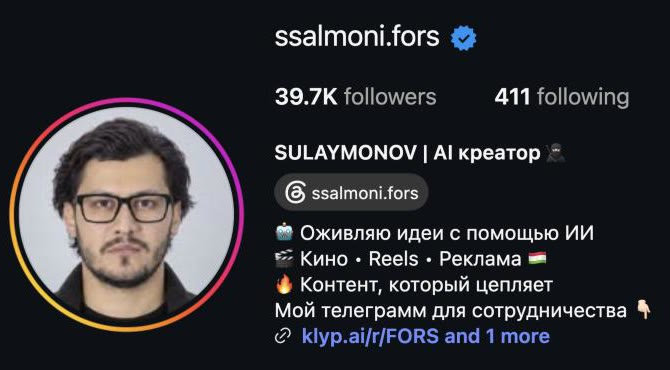
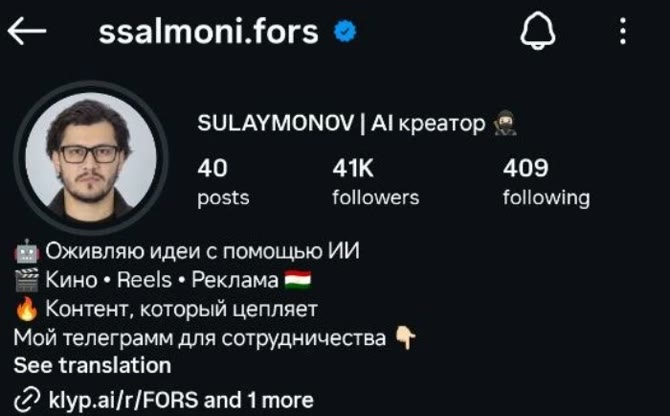
feat: free consultation instead of Instagram review, trim repeated blocks
- Хочу так же scrolls to the 8-week result block, now placed under student works
- New student profile screenshot and a fourth review
- Remove the How block, shorten mini-group texts

diff --git a/src/App.jsx b/src/App.jsx
@@ -7,7 +7,6 @@ import {
   lessonThreeVideos,
   reviews,
   versus,
-  how,
   weekMap,
   modules,
   plans,
@@ -199,14 +198,14 @@ function Hero() {
       </p>
       <div className="hero-cta">
         <SocialButton kind="telegram" variant="solid">
-          Бесплатный разбор
+          Бесплатная консультация
         </SocialButton>
         <SocialButton kind="instagram" variant="ghost">
           Мои результаты
         </SocialButton>
       </div>
       <p className="hero-note">
-        <b>Разбор бесплатный.</b> Денег за него не берём.
+        <b>Консультация бесплатная.</b> Денег за неё не берём.
       </p>
       <div className="facts">
         {facts.map((f) => (
@@ -220,16 +219,12 @@ function Hero() {
   );
 }
 
-/* ---------- Бесплатный разбор ---------- */
+/* ---------- Бесплатная консультация ---------- */
 
 const freeSteps = [
   {
-    title: "Разберём твой Instagram",
-    text: "Что уже работает, а что мешает расти.",
-  },
-  {
-    title: "Узнаем твой формат",
-    text: "Что ты хочешь снимать и для чего.",
+    title: "Узнаем твою цель",
+    text: "Блог, заказы или свой бизнес.",
   },
   {
     title: "Честно скажем, подходит ли курс",
@@ -243,7 +238,7 @@ function FreeReview() {
       <Reveal className="free">
         <span className="free-badge">Бесплатно · 0 $</span>
         <h2>
-          Сначала разбор. <span>Платить не нужно</span>
+          Бесплатная консультация. <span>Можно с полного нуля</span>
         </h2>
         <ol className="free-steps">
           {freeSteps.map((s, i) => (
@@ -256,11 +251,11 @@ function FreeReview() {
         </ol>
         <p className="free-quote">
           Я сам долго боялся и начал очень поздно. Поэтому первый шаг для тебя{" "}
-          <b>бесплатный</b>: не бойся, денег за разбор мы не берём.
+          <b>бесплатный</b>: не бойся, за консультацию денег не берём.
         </p>
         <div className="free-cta">
           <SocialButton kind="telegram" variant="solid">
-            Записаться на разбор
+            Записаться на консультацию
           </SocialButton>
           <SocialButton kind="instagram" variant="ghost">
             Смотри мои результаты
@@ -275,7 +270,7 @@ function FreeReview() {
 
 function Result() {
   return (
-    <section>
+    <section id="result">
       <SectionHead>
         Что у тебя будет <span>через 8 недель</span>
       </SectionHead>
@@ -411,7 +406,7 @@ function StudentWorks() {
               src={studentCase.profileShot}
               alt={`Профиль ${studentCase.handle} в Instagram`}
               width="670"
-              height="370"
+              height="416"
               loading="lazy"
             />
           </a>
@@ -431,9 +426,10 @@ function StudentWorks() {
       </Reveal>
 
       <Reveal className="students-cta">
-        <SocialButton kind="telegram" variant="solid">
-          Хочу так же
-        </SocialButton>
+        <a className="btn btn-solid" href="#result">
+          <span>Хочу так же</span>
+          <Arrow />
+        </a>
       </Reveal>
     </section>
   );
@@ -489,27 +485,6 @@ function Versus() {
   );
 }
 
-/* ---------- Как проходит ---------- */
-
-function How() {
-  return (
-    <section>
-      <SectionHead>
-        Как проходит <span>обучение</span>
-      </SectionHead>
-      <div className="how">
-        {how.map((h, i) => (
-          <Reveal className="card" key={h.title}>
-            <b>{h.big}</b>
-            <h3>{h.title}</h3>
-            <p>{h.text}</p>
-          </Reveal>
-        ))}
-      </div>
-    </section>
-  );
-}
-
 /* ---------- Мини-группа ---------- */
 
 // Сколько человек в одной мини-группе внутри потока. Меняется только здесь.
@@ -519,17 +494,17 @@ const groupPerks = [
   {
     big: "Свой чат",
     title: `На ${GROUP_SIZE} человек`,
-    text: "Закрытый чат твоей мини-группы в Telegram. Здесь не стыдно задать любой вопрос.",
+    text: "Закрытый чат в Telegram. Здесь не стыдно спросить.",
   },
   {
     big: "Тебя видно",
-    title: "В своей мини-группе",
-    text: "В маленькой группе видно каждого участника и каждый ролик. Твой вопрос не утонет в ленте.",
+    title: "Каждый вопрос и ролик",
+    text: "Твой вопрос не утонет в ленте.",
   },
   {
     big: "Ты не один",
     title: "Рядом такие же новички",
-    text: "Идеи, работы и поддержка от группы. Вместе проще дойти до финала.",
+    text: "Вместе проще дойти до финала.",
   },
 ];
 
@@ -722,11 +697,11 @@ function Cta() {
     <Reveal className="cta">
       <div>
         <h2>Сделай свой первый кино-ролик</h2>
-        <p>Начни с бесплатного разбора. Денег за него не берём.</p>
+        <p>Начни с бесплатной консультации. Денег за неё не берём.</p>
       </div>
       <div className="cta-btns">
         <SocialButton kind="telegram" variant="dark">
-          Бесплатный разбор
+          Бесплатная консультация
         </SocialButton>
         <SocialButton kind="instagram" variant="dark">
           {INSTAGRAM_HANDLE}
@@ -760,7 +735,7 @@ function Dock() {
   return (
     <div className={`dock ${visible ? "is-visible" : ""}`}>
       <SocialButton kind="telegram" variant="solid">
-        Бесплатный разбор
+        Бесплатная консультация
       </SocialButton>
       <SocialButton kind="instagram" variant="ghost" />
     </div>
@@ -778,12 +753,11 @@ export default function App() {
       <main className="wrap">
         <Hero />
         <FreeReview />
-        <Result />
         <MyWorks />
         <StudentWorks />
+        <Result />
         <Reviews />
         <Versus />
-        <How />
         <Group />
         <Program />
         <Plans />

diff --git a/src/Promo.jsx b/src/Promo.jsx
@@ -160,14 +160,14 @@ export function Popup() {
             </>
           ) : (
             <>
-              Начни <span>с бесплатного разбора</span>
+              Начни <span>с бесплатной консультации</span>
             </>
           )}
         </h3>
         <p>
           {promo
-            ? `Курс стартует ${COURSE_START}. Сначала бесплатный разбор, потом решаешь.`
-            : `Курс стартует ${COURSE_START}. Разберём твой Instagram и скажем, подходит ли курс.`}
+            ? `Курс стартует ${COURSE_START}. Сначала бесплатная консультация, потом решаешь.`
+            : `Курс стартует ${COURSE_START}. Узнаем твою цель и честно скажем, подходит ли курс.`}
         </p>
         {promo && <Countdown />}
         <a
@@ -177,9 +177,9 @@ export function Popup() {
           rel="noopener noreferrer"
           onClick={() => setOpen(false)}
         >
-          {promo ? "Забрать скидку в Telegram" : "Записаться на разбор"}
+          {promo ? "Забрать скидку в Telegram" : "Записаться на консультацию"}
         </a>
-        <small>Разбор бесплатный. Денег за него не берём.</small>
+        <small>Консультация бесплатная. Денег за неё не берём.</small>
       </div>
     </div>
   );

diff --git a/src/styles.css b/src/styles.css
@@ -427,7 +427,7 @@ footer { display: flex; flex-wrap: wrap; justify-content: space-between; gap: 12
   -webkit-background-clip: text; background-clip: text; -webkit-text-fill-color: transparent; color: transparent;
 }
 .free-lead { color: var(--muted); font-size: clamp(16px, 2vw, 19px); margin: 14px 0 0; max-width: 52ch; }
-.free-steps { display: grid; grid-template-columns: repeat(3, 1fr); gap: 12px; margin: 28px 0 0; padding: 0; list-style: none; }
+.free-steps { display: grid; grid-template-columns: repeat(2, 1fr); gap: 12px; margin: 28px 0 0; padding: 0; list-style: none; }
 .free-steps li { background: rgba(5, 5, 5, 0.55); border: 1px solid var(--line); border-radius: var(--r-md); padding: 20px; }
 .free-steps b { display: block; font-family: var(--display); font-weight: 800; font-size: 13px; color: var(--accent); letter-spacing: 0.08em; }
 .free-steps h3 { font-size: 16px; margin: 12px 0 6px; letter-spacing: -0.01em; }

diff --git a/src/links.js b/src/links.js
@@ -3,7 +3,7 @@ const TELEGRAM_USER = "manager_aikino";
 
 // Текст, который уже будет написан в Telegram, когда человек нажмёт кнопку.
 // Ему останется только нажать «Отправить».
-const MESSAGE = "Привет, хочу разбор";
+const MESSAGE = "Привет, хочу консультацию";
 
 const telegramLink = (text) =>
   `https://t.me/${TELEGRAM_USER}?text=${encodeURIComponent(text)}`;

diff --git a/src/data.js b/src/data.js
@@ -33,6 +33,7 @@ export const reviews = [
   { name: "Salmoni Fors", role: "Ученик курса", img: "/reviews/1.jpg", w: 560, h: 426 },
   { name: "Guwanch", role: "Ученик курса", img: "/reviews/2.jpg", w: 560, h: 344 },
   { name: "sunnahri", role: "Мама ученика", img: "/reviews/3.jpg", w: 560, h: 400 },
+  { name: "Ученик", role: "Ученик курса", img: "/reviews/4.jpg", w: 560, h: 214 },
 ];
 
 export const skills = [
